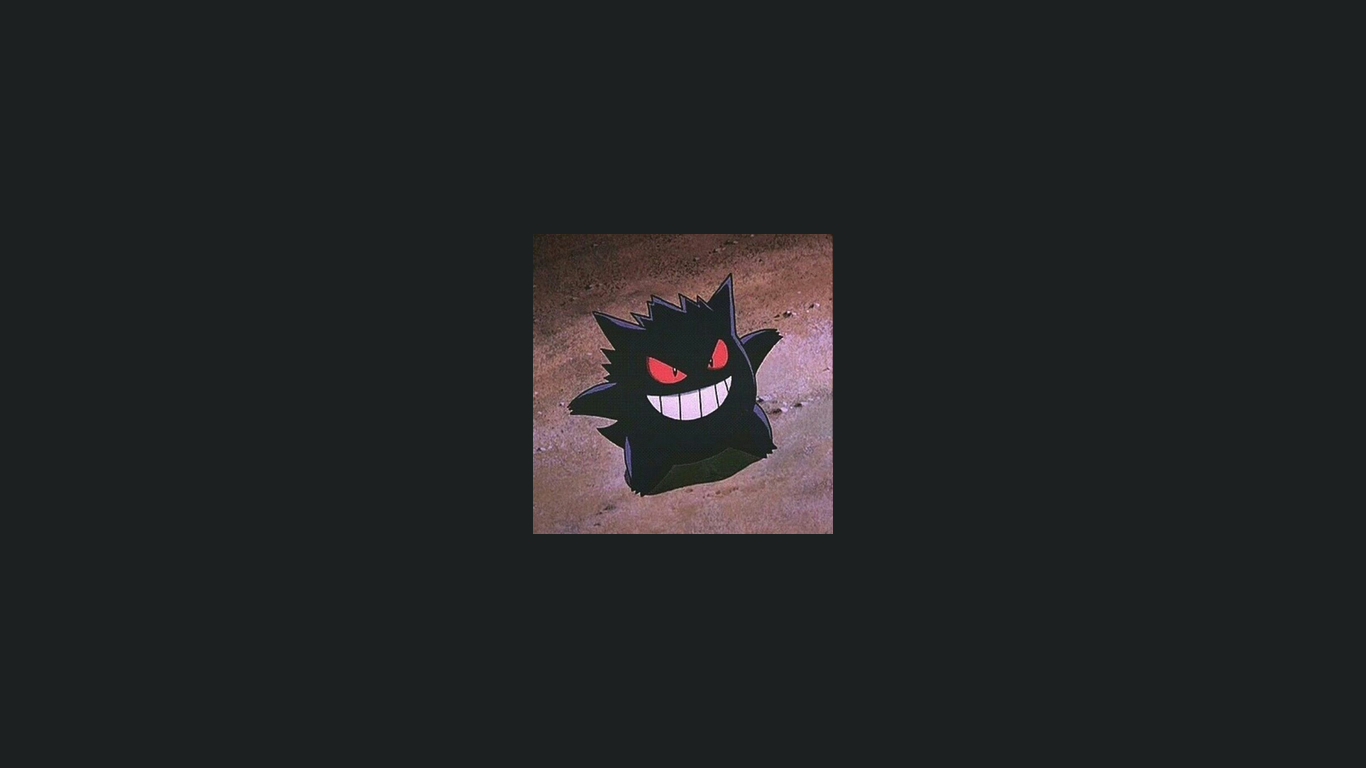
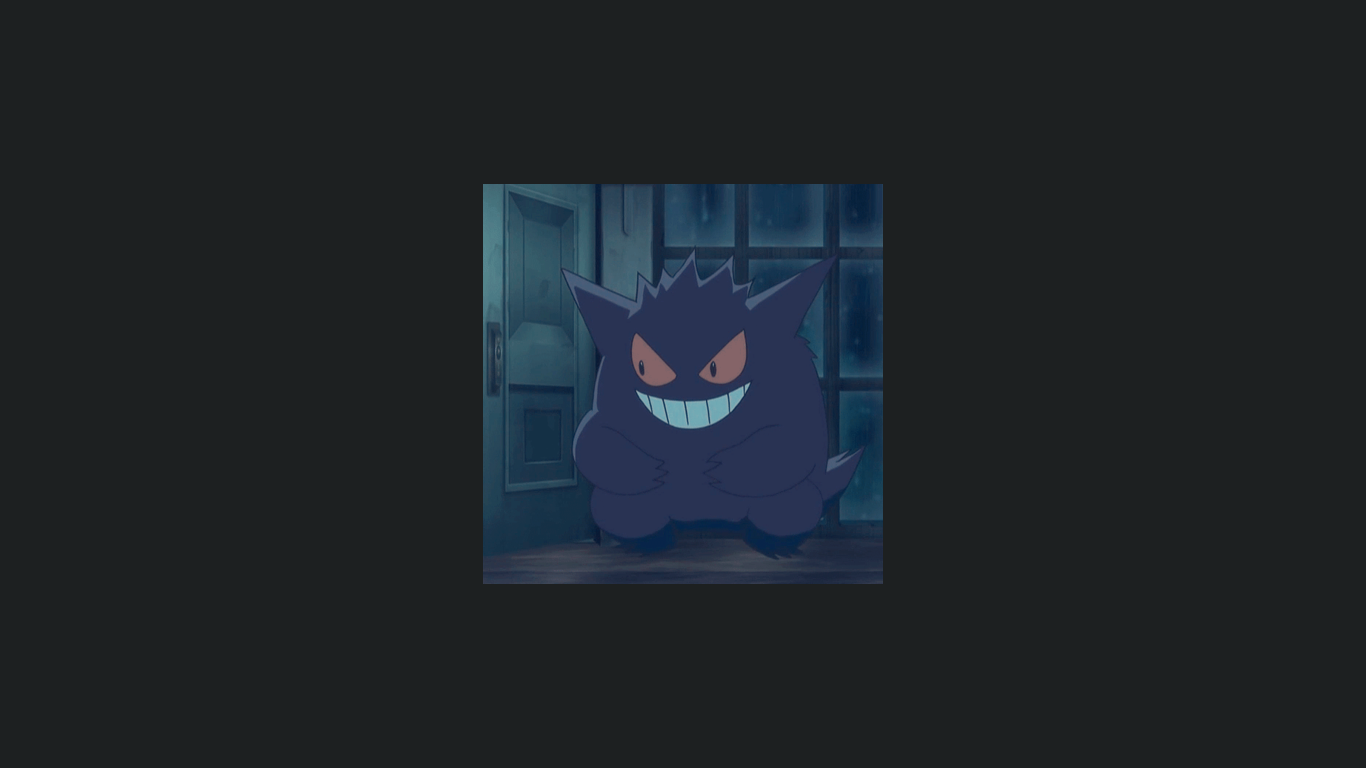
changed the gengar image and qutebrowser config
- added some aliases to qutebrowser
- changed some qutebrowser options, like default downloads location, and
  pdfjs opening

Changed region(s): [[0.3382, 0.2188, 0.6457, 0.7812]]

diff --git a/.config/startpage/index.html b/.config/startpage/index.html
@@ -56,6 +56,7 @@
 				object-fit: cover;
 				object-position: 50% 100%;
 				width: 14em;
+				margin: auto;
 			}
 		</style>
 	</head>
@@ -72,6 +73,10 @@
 				<li><a href="https://doc.rust-lang.org/book/">rust docs</a></li>
 				<li><a href="http://automatetheboringstuff.com/">automate</a></li>
 				<li><a href="https://github.com/inscrow/coding-interview-university">coding interview material</a></li>
+				<li><a href="https://exercism.org/tracks">exercism</a></li>
+				<li><a href="http://www.codewars.com">codewars</a></li>
+				<li><a href="https://codility.com/programmers/">codility</a></li>
+				<li><a href="https://www.hackerearth.com/">HackerEarth</a></li>
 			</ul>
 			<ul>
 				<li>Fun</li>
@@ -90,9 +95,20 @@
 				<li>Music</li>
 				<li><a href="https://open.spotify.com/">spotify</a></li>
 			</ul>
+			<ul>
+				<li>Others</li>
+				<li><a href="https://github.com/">github</a></li>
+				<li><a href="https://suckless.org/">suckless</a></li>
+			</ul>
+			<ul>
+				<li>Coding problems</li>
+				<li><a href="https://leetcode.com/">leetcode</a></li>
+				<li><a href="https://www.hackerrank.com/">HackerRank</a></li>
+				<li><a href="https://projecteuler.net/">Project Euler</a></li>
+			</ul>
 		</nav>
 
-		<img src="gengar.jpg">
+		<img src="gengar.png">
 	</body>
 </html>
 <!-- vim: set shiftwidth=2 tabstop=2: -->

diff --git a/.config/qutebrowser/config.py b/.config/qutebrowser/config.py
@@ -1,15 +1,34 @@
 # load default options before modifying them
 config.load_autoconfig()
 
+# command aliases
+c.aliases = {
+        'src': 'config-source',
+        'ce': 'config-edit'
+}
+
 # don't show scrollbars
-c.scrolling.bar = "never"
+c.scrolling.bar = 'never'
+
+c.content.geolocation = False
+
+# wait 2 seconds and then delete finished downlaods
+c.downloads.remove_finished = 2000
+
+c.downloads.location.directory = '/home/rick/'
+
+# display PDFs in browser
+c.content.pdfjs = True
+
+# editor command to use
+c.editor.command = ['st', '-e', 'nvim', '{file}']
 
 # set keybindings
 config.bind(',v', 'spawn mpv {url}')
 home_keys = ['a', 's', 'd', 'f', 'g', 'h', 'j', 'k', 'l']
 for i, key in enumerate(home_keys):
     config.bind(',' + key, 'tab-focus ' + str(i + 1))
-config.bind(',;', 'tab-focus 1 ;; tab-prev')
+config.bind(',;', 'tab-focus -1')
 
 config.bind(',V', 'hint links spawn mpv {hint-url}')
 config.bind(',y', 'hint links yank')
